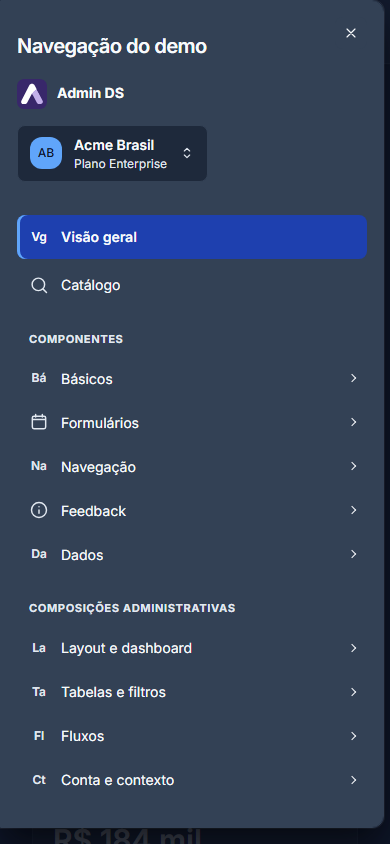
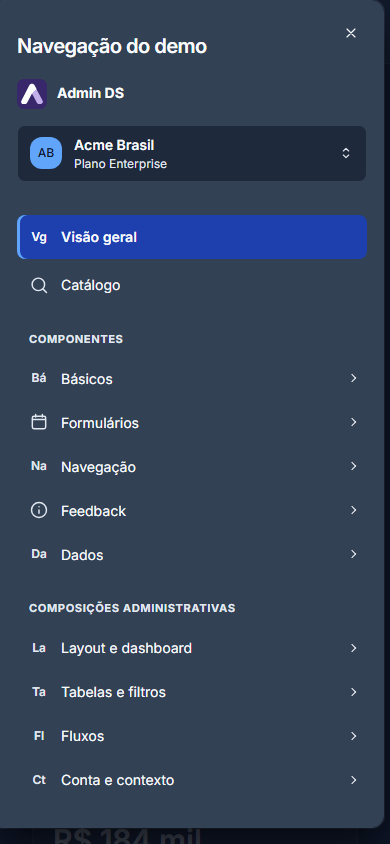
fix(admin): estabiliza seletor e selecao da sidebar (#187)

Changed region(s): [[0.5231, 0.1232, 0.9538, 0.2156]]

diff --git a/e2e/smoke.spec.ts b/e2e/smoke.spec.ts
@@ -65,3 +65,53 @@ test('em tela estreita o título do cabeçalho segue acessível e o cabeçalho n
 		.evaluate((header) => header.getBoundingClientRect().height);
 	expect(height).toBeLessThanOrEqual(64);
 });
+
+test('mantém seleção proporcional, recuo lateral e seletor de largura estável', async ({
+	page,
+}) => {
+	await page.setViewportSize({ width: 1280, height: 800 });
+	await page.goto('/');
+	const nav = page.getByRole('navigation', { name: 'Navegação do demo' });
+	const active = nav.getByRole('link', { name: 'Visão geral', exact: true });
+	const organization = nav.getByRole('button', { name: /^Organização atual/ });
+	await waitForHydration(organization);
+	const initialWidth = (await organization.boundingBox())!.width;
+	expect(
+		Math.abs(
+			initialWidth - (await page.locator('.ads-organization-switcher').boundingBox())!.width,
+		),
+	).toBeLessThanOrEqual(1);
+	for (const name of ['Initech', 'Globex Logística']) {
+		await organization.click();
+		await page
+			.getByRole('dialog', { name: 'Trocar de organização' })
+			.getByRole('button', { name: new RegExp('^' + name) })
+			.click();
+		await expect(organization).toHaveAccessibleName(new RegExp('Organização atual: ' + name));
+		await expect(page.getByRole('dialog', { name: 'Trocar de organização' })).toBeHidden();
+		expect((await organization.boundingBox())!.width).toBe(initialWidth);
+	}
+	// Reserve a real scrollbar gutter even when all items fit, then also test the default behavior.
+	for (const gutter of ['stable', 'auto']) {
+		await nav.evaluate((el, value) => {
+			el.style.scrollbarGutter = value;
+		}, gutter);
+		const expanded = (await active.boundingBox())!;
+		await page.getByRole('button', { name: 'Recolher barra lateral' }).click();
+		const collapsed = (await active.boundingBox())!;
+		expect(collapsed.width).toBeCloseTo(44, 0);
+		expect(collapsed.height).toBeCloseTo(44, 0);
+		expect(Math.abs(collapsed.x - expanded.x)).toBeLessThanOrEqual(1);
+		expect((await page.locator('.ads-admin-shell-sidebar-desktop').boundingBox())!.width).toBe(72);
+		await expect(organization).toHaveCSS('border-left-color', 'rgba(0, 0, 0, 0)');
+		const before = (await organization.locator('.ads-avatar').boundingBox())!;
+		await organization.evaluate((el) => {
+			el.style.borderColor = 'gray';
+		});
+		expect(await organization.locator('.ads-avatar').boundingBox()).toEqual(before);
+		await organization.evaluate((el) => {
+			el.style.removeProperty('border-color');
+		});
+		await page.getByRole('button', { name: 'Expandir barra lateral' }).click();
+	}
+});

diff --git a/packages/admin/src/styles.css b/packages/admin/src/styles.css
@@ -1840,7 +1840,7 @@
 			display: grid;
 			grid-template-rows: subgrid;
 			/* Avoid reflowing expanded branding through intermediate collapsed widths. */
-			transition: none;
+			transition: border-color var(--ads-motion-fast);
 		}
 		.ads-admin-shell--sidebar-header .ads-admin-shell-sidebar-header {
 			grid-row: 1;
@@ -1916,6 +1916,49 @@
 			> .ads-admin-shell-sidebar-header {
 			justify-content: center;
 			padding-inline: var(--ads-spacing-2);
+		}
+	}
+}
+
+/* Organization width is independent of its label; collapsed geometry stays unchanged. */
+@layer components {
+	.ads-organization-switcher[data-collapsed='false'] {
+		display: grid;
+	}
+	.ads-organization-switcher[data-collapsed='false'] > * {
+		min-width: 0;
+	}
+	.ads-organization-switcher[data-collapsed='true'] .ads-organization-switcher-trigger {
+		border-color: transparent;
+	}
+	@media (min-width: 48rem) {
+		.ads-admin-shell--sidebar-header .ads-sidebar-navigation {
+			container-type: inline-size;
+			--ads-sidebar-compact-content-width: calc(
+				100cqi -
+					(var(--ads-admin-shell-sidebar-width) - var(--ads-admin-shell-sidebar-width-collapsed))
+			);
+		}
+		.ads-admin-shell--sidebar-header
+			.ads-admin-shell-sidebar-desktop[data-collapsed='true']
+			.ads-sidebar-navigation {
+			--ads-sidebar-compact-content-width: 100cqi;
+		}
+		.ads-admin-shell--sidebar-header
+			.ads-sidebar-navigation
+			.ads-sidebar-item
+			> a[aria-current='page'] {
+			--ads-sidebar-selection-outset: calc(
+				(2.75rem - var(--ads-sidebar-compact-content-width)) / 2
+			);
+			margin-inline: calc(-1 * var(--ads-sidebar-selection-outset));
+			padding-inline: calc(var(--ads-spacing-3) + var(--ads-sidebar-selection-outset));
+		}
+		.ads-admin-shell--sidebar-header
+			.ads-admin-shell-sidebar-desktop[data-collapsed='true']
+			.ads-sidebar-item
+			> a[aria-current='page'] {
+			padding-inline: var(--ads-sidebar-selection-outset);
 		}
 	}
 }

diff --git a/CHANGELOG.md b/CHANGELOG.md
@@ -10,7 +10,7 @@ por versão e pelas changes correspondentes do OpenSpec.
 
 #### Added
 
-- `refine-dashboard-sidebar-branding` (issue #187) - Composição opcional `AdsAdminShell layout="sidebar-header"` e slot `Sidebar.header` alinham branding e controle de painel lateral ao header com altura natural, preservando layout padrão, estados e rolagem independente. O toggle circular com chevron fica na divisória sem aumentar a altura do topo ao recolher. `AdsOrganization.avatarTone` permite colorir o avatar no gatilho e nas opções (padrão neutral); o demo usa primary, como na conta. Demo move a marca abreviada Admin DS em uma linha para a sidebar, mantém abertura móvel alcançável e controles #185/#182; compacta localmente a Visão geral e organiza indicadores em 1/2/4 colunas pela largura útil, com 2×2 em 1280px. Seleção light suavizada por `--ads-sidebar-active-background`, sem alterar dark. Inclui stories, catálogo, documentação, testes e comparação visual.
+- `refine-dashboard-sidebar-branding` (issue #187) - Composição opcional `AdsAdminShell layout="sidebar-header"` e slot `Sidebar.header` alinham branding e controle de painel lateral ao header com altura natural, preservando layout padrão, estados e rolagem independente. O seletor expandido ocupa a largura disponível sem variar com o nome; recolhido, sua borda fica transparente sem deslocar o avatar. O destaque ativo recolhido fica em 44×44px, com recuo lateral igual ao expandido e largura da sidebar preservada. O toggle circular com chevron fica na divisória sem aumentar a altura do topo ao recolher. `AdsOrganization.avatarTone` permite colorir o avatar no gatilho e nas opções (padrão neutral); o demo usa primary, como na conta. Demo move a marca abreviada Admin DS em uma linha para a sidebar, mantém abertura móvel alcançável e controles #185/#182; compacta localmente a Visão geral e organiza indicadores em 1/2/4 colunas pela largura útil, com 2×2 em 1280px. Seleção light suavizada por `--ads-sidebar-active-background`, sem alterar dark. Inclui stories, catálogo, documentação, testes e comparação visual.
 
 - `issue-185-account-notifications-organization` (issue #185) - Três composições novas e independentes em `@admin-ds/admin`: `AdsAccountMenu` (menu de conta compacto aberto pelo avatar, com identidade, ações configuráveis por grupos, `Trocar conta` opcional e ações assíncronas pendentes), `AdsNotificationCenter` (sino com contador `99+` e painel lateral direito sobre `AdsDrawer`, filtros Todas/Não lidas, leitura individual e global por callbacks, estados de carregamento, vazio, erro, ação pendente e "Carregar mais"; abrir o painel nunca marca como lido) e `AdsOrganizationSwitcher` (seletor opcional no topo da sidebar, com busca, troca assíncrona sem confirmar antes do sucesso, estados e modo recolhido), sem mudança em `AdsAdminShell`. Evoluções compatíveis em `@admin-ds/components`: `AdsIcon` ganha `bell`, `building`, `chevronDown`, `chevronsUpDown`, `logOut`, `settings` e `user`; `AdsAvatar` tenta de novo a imagem quando `src` muda após uma falha e aceita `src={undefined}`. A biblioteca não implementa autenticação, autorização, backend, persistência nem transporte de notificações. Inclui stories, showcases em `/catalogo/account-menu`, `/catalogo/notification-center` e `/catalogo/organization-switcher` (com exemplo da sidebar sem seletor), integração no cabeçalho e na sidebar do admin demo com dados fictícios, documentação em `docs/integration.md` e testes unitários, de acessibilidade, SSR e E2E. Efeito observável no demo: sino de notificações e avatar da conta no cabeçalho e seletor de organização no topo da sidebar; o menu de tema do cabeçalho mantém o gatilho só com ícone e passa a mostrar ícone e texto nas opções (`optionDisplay="icon-text"`); tema e sino ficam sem borda no cabeçalho e o avatar da conta ganha fundo. `AdsAvatar` ganha `tone` (`neutral` padrão, `primary`, `success`, `warning`, `danger`), `backgroundColor` e `foregroundColor` (qualquer cor CSS); `AdsAccountMenu` aceita `user.avatarTone`, `avatarBackgroundColor` e `avatarForegroundColor` (padrão `primary`); `AdsThemeControl` ganha `triggerVariant` (`secondary` padrão, `ghost` sem borda), tudo aditivo; os baselines visuais do demo devem ser regenerados pelo workflow "Atualizar baselines visuais".
 

diff --git a/openspec/changes/refine-dashboard-sidebar-branding/design.md b/openspec/changes/refine-dashboard-sidebar-branding/design.md
@@ -30,3 +30,10 @@ Alinhar marca/header com altura natural; preservar contratos anteriores e manter
 ## Migration Plan
 
 API opt-in, nenhuma migração obrigatória. Integrar biblioteca e consumidores juntos em develop. Rollback: remover layout/header do consumidor e reverter estilos locais. Não arquivar nem fazer merge sem revisão humana.
+
+## Refinamento de seleção e largura do seletor
+
+- No desktop recolhido, somente a cor da borda do gatilho de organização fica transparente; espessura, padding, tamanho e posição do avatar são preservados. O modo expandido mantém a borda.
+- Expandido, o seletor organiza a âncora do popover como item de grid esticado: o gatilho ocupa toda a largura disponível, independente do nome. Não há largura fixa em pixels nem alteração global do Popover; rótulos longos continuam truncáveis.
+- O item ativo recolhido tem 2,75rem por 2,75rem. A navegação é um container inline: unidades cqi permitem calcular a expansão lateral do item considerando o espaço tomado pela scrollbar. No expandido, a mesma expansão considera a diferença entre as larguras da sidebar. Assim o recuo da seleção é igual nos dois estados, sem mudar largura da barra, posição dos ícones ou indentação das categorias. Só o item ativo ganha essa largura adicional.
+- Alternativa descartada: ampliar tudo com uma margem negativa constante produziria seleção maior que 44px em navegadores com scrollbar sobreposta. O cálculo é CSS, sem medição ou estado JavaScript novo.

diff --git a/openspec/changes/refine-dashboard-sidebar-branding/tasks.md b/openspec/changes/refine-dashboard-sidebar-branding/tasks.md
@@ -39,3 +39,11 @@
 - [x] 5.3 Atualizar stories, regressões de geometria e evidências; repetir format, lint, build, tipos, testes e E2E locais.
 
 - Refinamento aprovado: capturas atualizadas e revisadas em light/dark; cabeçalho de 64px antes e depois do recolhimento, controle clicável na divisória e avatar primary igual ao da conta. Sem animação de largura nessa variante para evitar reflow transitório. Testes: 1.064 unitários/integração aprovados e 299 E2E aprovados com --ignore-snapshots. A falha preexistente de test:ci no Windows e os gates remotos pendentes permanecem registrados acima.
+
+## 6. Consistência da seleção e do seletor de organização
+
+- [x] 6.1 Fixar largura disponível do seletor expandido e ocultar apenas a cor da borda recolhida.
+- [x] 6.2 Implementar seleção de 44x44px com recuo igual nos estados e scrollbar variável.
+- [x] 6.3 Validar nomes curtos/longos, foco, geometria e regressões nos navegadores; atualizar evidências e executar gates locais.
+
+- Consistência validada: 21 smoke nos três navegadores e 302 E2E completos aprovados com --ignore-snapshots; 1.064 testes unitários/integração aprovados. Build, Storybook, tipos, lint, formatação, skills, artefatos gerados e 54 itens OpenSpec validados. test:quality continua limitado pela asserção preexistente /work versus C:\\work em test:ci no Windows. Capturas finais atualizadas e revisadas.

diff --git a/openspec/changes/refine-dashboard-sidebar-branding/specs/admin-shell-layout/spec.md b/openspec/changes/refine-dashboard-sidebar-branding/specs/admin-shell-layout/spec.md
@@ -28,3 +28,17 @@ AdsAdminShell MUST oferecer composição opcional com conteúdo no topo da sideb
 
 - **WHEN** o consumidor aplica temas ou sobrescreve tokens públicos
 - **THEN** superfícies, texto, foco e bordas da nova composição respondem sem Tailwind no consumidor
+
+### Requirement: Seleção recolhida é proporcional e tem recuo consistente
+
+Na composição sidebar-header, o item ativo recolhido MUST ter destaque de 2,75rem por 2,75rem sem alargar a barra. Expandido e recolhido MUST ter o mesmo recuo lateral do destaque, preservando ícones, texto, hierarquia, foco e aria-current, com ou sem espaço ocupado pela scrollbar.
+
+#### Scenario: Recolhimento com scrollbar
+
+- **WHEN** a navegação precisa de scrollbar e a sidebar alterna seu estado
+- **THEN** o destaque mantém o mesmo recuo da borda e fica quadrado no recolhido, sem mudar a largura da barra ou cortar o conteúdo
+
+#### Scenario: Navegação sem scrollbar
+
+- **WHEN** os itens cabem ou o navegador usa scrollbar sobreposta
+- **THEN** o destaque recolhido continua quadrado, com recuo coerente no estado expandido

diff --git a/openspec/changes/refine-dashboard-sidebar-branding/specs/organization-switcher/spec.md b/openspec/changes/refine-dashboard-sidebar-branding/specs/organization-switcher/spec.md
@@ -13,3 +13,17 @@ AdsOrganization MUST aceitar avatarTone opcional, com os tons públicos de AdsAv
 
 - **WHEN** avatarTone não é fornecido
 - **THEN** a aparência anterior e o contrato de seleção permanecem inalterados
+
+### Requirement: Seletor expandido conserva largura independente do nome
+
+O seletor de organização expandido MUST ocupar a largura disponível no contêiner e manter seu tamanho ao trocar entre nomes curtos e longos. No modo recolhido, a borda MUST ficar invisível sem mudar posição, dimensões e área de foco do gatilho.
+
+#### Scenario: Nome curto e nome longo
+
+- **WHEN** a organização selecionada muda para um nome menor ou maior
+- **THEN** a borda do gatilho expandido mantém a mesma largura, respeitando o contêiner e truncando rótulos quando necessário
+
+#### Scenario: Organização recolhida
+
+- **WHEN** a sidebar está recolhida
+- **THEN** o avatar permanece no mesmo lugar com borda externa transparente, nome acessível e foco visível; o expandido preserva sua borda

diff --git a/docs/integration.md b/docs/integration.md
@@ -1495,3 +1495,5 @@ Estado controlado/não controlado, SSR/hidratação e persistência do consumido
 os contratos anteriores; não há dependências novas.
 
 Cada item de `AdsOrganizationSwitcher.organizations` aceita `avatarTone` (tons de `AdsAvatar`, padrão `neutral`). O tom vale no gatilho e na opção da lista; `primary` usa o mesmo fundo semântico do avatar da conta no demo. Logos e fallback continuam funcionando.
+
+O seletor expandido preenche a largura de seu contêiner, independente do nome; use um contêiner com largura limitada para restringi-lo. No recolhido, somente a cor da borda fica transparente, preservando a geometria. Na composição sidebar-header, o item ativo recolhido mede 2,75rem quadrados; seu recuo lateral é compartilhado pelo expandido e considera a largura útil com scrollbar.

diff --git a/docs/evidence/issue-187/README.md b/docs/evidence/issue-187/README.md
@@ -38,3 +38,5 @@ rolagem independente, SSR/hidratação e controles #185/#182.
 
 Snapshots oficiais devem ser regenerados e confirmados em Linux pelo workflow
 **Atualizar baselines visuais**, com revisão das diferenças intencionais antes da entrega.
+
+Refinamento de consistência: o seletor expandido ocupa toda a largura disponível, mesmo com nomes curtos. Recolhido, apenas a cor da borda fica transparente; o avatar conserva a posição. A seleção ativa é de 44×44px no recolhido e mantém o mesmo recuo lateral no expandido, com cálculo que considera a scrollbar. A regressão smoke verifica esses contratos nos três navegadores, com gutter stable e auto.
